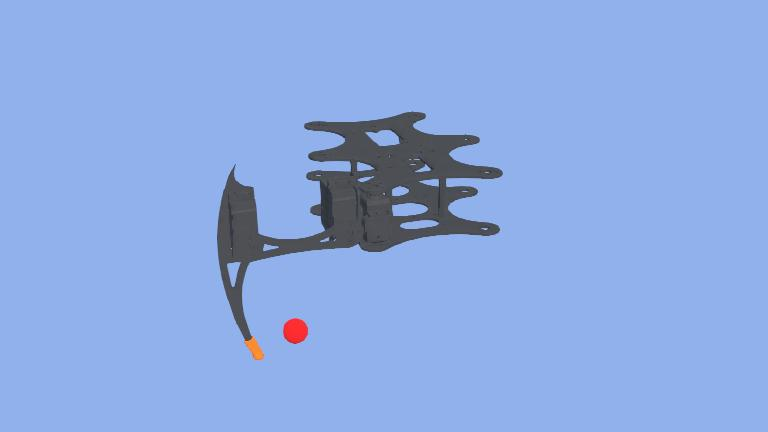
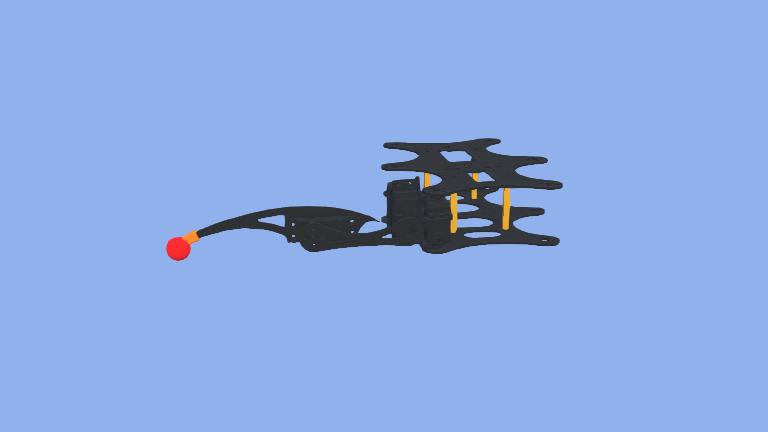
updates scenes and project description

Changed region(s): [[0.2188, 0.2407, 0.75, 0.8426]]

diff --git a/README.md b/README.md
@@ -2,20 +2,4 @@
 
 Hexapod robot control.
 
-![](hexapod-kinematics.png)
-
-# Denavit hartenberg parameters (just body and 1 leg)
-
-* theta is the rotation along z-axis
-* alpha is the rotation along x-axis
-* r is the translation along x-axis
-* d is the translation along z-axis
-
-Joint 1 is virtual. Angles in degrees and distances in centimeters
-
-| Joint | theta | alpha |   r  |   d  |
-|:-----:|:-----:|:-----:|:----:|:----:|
-|   0   |   0   |   90  | 8.75 | 5.05 |
-|   1   |   0   |  -90  |   0  |   0  |
-|   2   |  -90  |  -90  | 2.95 | 2.25 |
-|   3   |   0   |   0   |   8  |   0  |
+![](Hexapod/worlds/.hexapod-dynamics.jpg)
